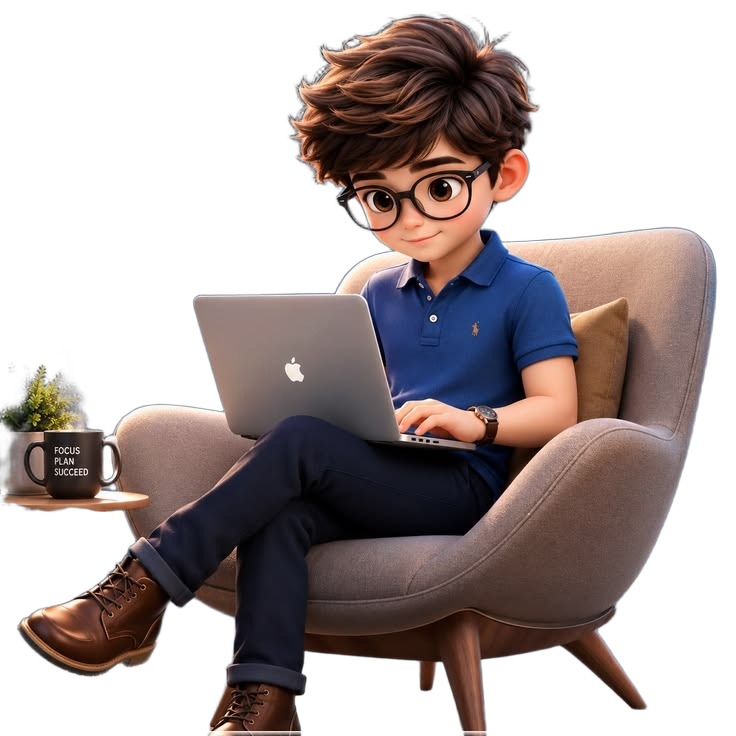
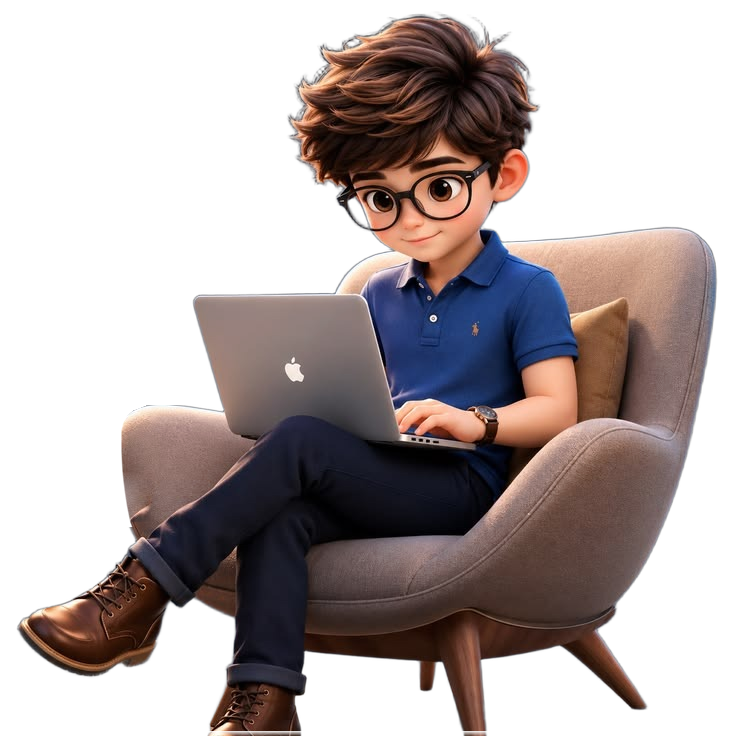
feat: add admin login component and developer asset

Changed region(s): [[0.0, 0.5, 0.2188, 0.7188]]

diff --git a/src/admin/Login.jsx b/src/admin/Login.jsx
@@ -1,6 +1,8 @@
 import React, { useState } from 'react';
 import { useNavigate, Link } from 'react-router-dom';
 import { useAuth } from '../context/AuthContext';
+import { usePortfolio } from '../context/PortfolioContext';
+import profileImg from '../assets/profile.jpg';
 import { Lock, Shield, Eye, EyeOff, ArrowLeft, KeyRound, AlertCircle, Mail } from 'lucide-react';
 
 export default function Login() {
@@ -11,6 +13,9 @@ export default function Login() {
   const [isLoading, setIsLoading] = useState(false);
 
   const { login } = useAuth();
+  const portfolioContext = usePortfolio();
+  const profile = portfolioContext?.profile;
+  const activeAvatar = profile?.profileImage || profileImg;
   const navigate = useNavigate();
 
   const handleSubmit = (e) => {
@@ -62,8 +67,20 @@ export default function Login() {
 
         {/* Header */}
         <div className="flex flex-col items-center text-center mb-8">
-          <div className="w-14 h-14 rounded-2xl bg-gold-500/10 border border-gold-400/40 flex items-center justify-center text-gold-700 mb-4 shadow-sm">
-            <Shield className="w-7 h-7 stroke-[1.8]" />
+          <div className="relative mb-4">
+            <div className="w-16 h-16 sm:w-20 sm:h-20 rounded-2xl overflow-hidden border-2 border-gold-400/60 shadow-md shadow-gold-500/15 bg-gold-100 flex items-center justify-center">
+              <img
+                src={activeAvatar}
+                alt={profile?.name || "Bharath Lokesh"}
+                className="w-full h-full object-cover object-[center_28%]"
+              />
+            </div>
+            <div
+              className="absolute -bottom-1 -right-1 p-1 rounded-lg bg-gradient-to-r from-gold-400 to-amber-500 text-stone-950 border-2 border-white shadow-xs"
+              title="Admin Security Protected"
+            >
+              <Shield className="w-3.5 h-3.5 stroke-[2.2]" />
+            </div>
           </div>
 
           <div className="inline-flex items-center gap-1.5 px-3 py-1 rounded-full bg-gold-500/10 border border-gold-400/30 text-[10px] font-sans tracking-widest uppercase text-gold-900 font-bold mb-2">
@@ -75,7 +92,7 @@ export default function Login() {
             Admin Console
           </h1>
           <p className="text-xs sm:text-sm text-stone-600 mt-1.5">
-            Management portal for Bharath Lokesh Portfolio
+            Management portal for {profile?.name || "Bharath Lokesh"} Portfolio
           </p>
         </div>
 
